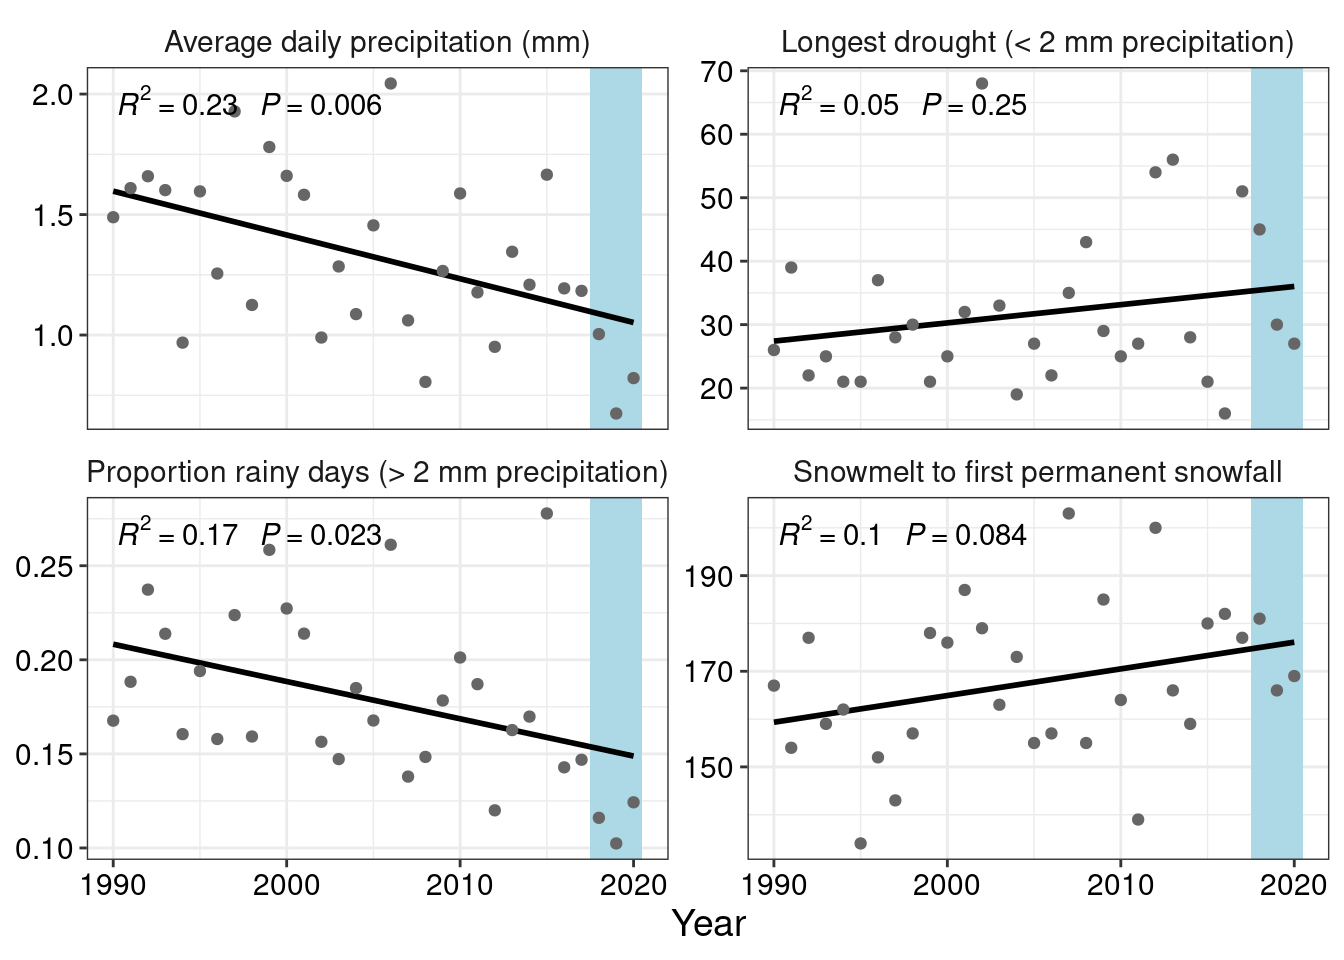
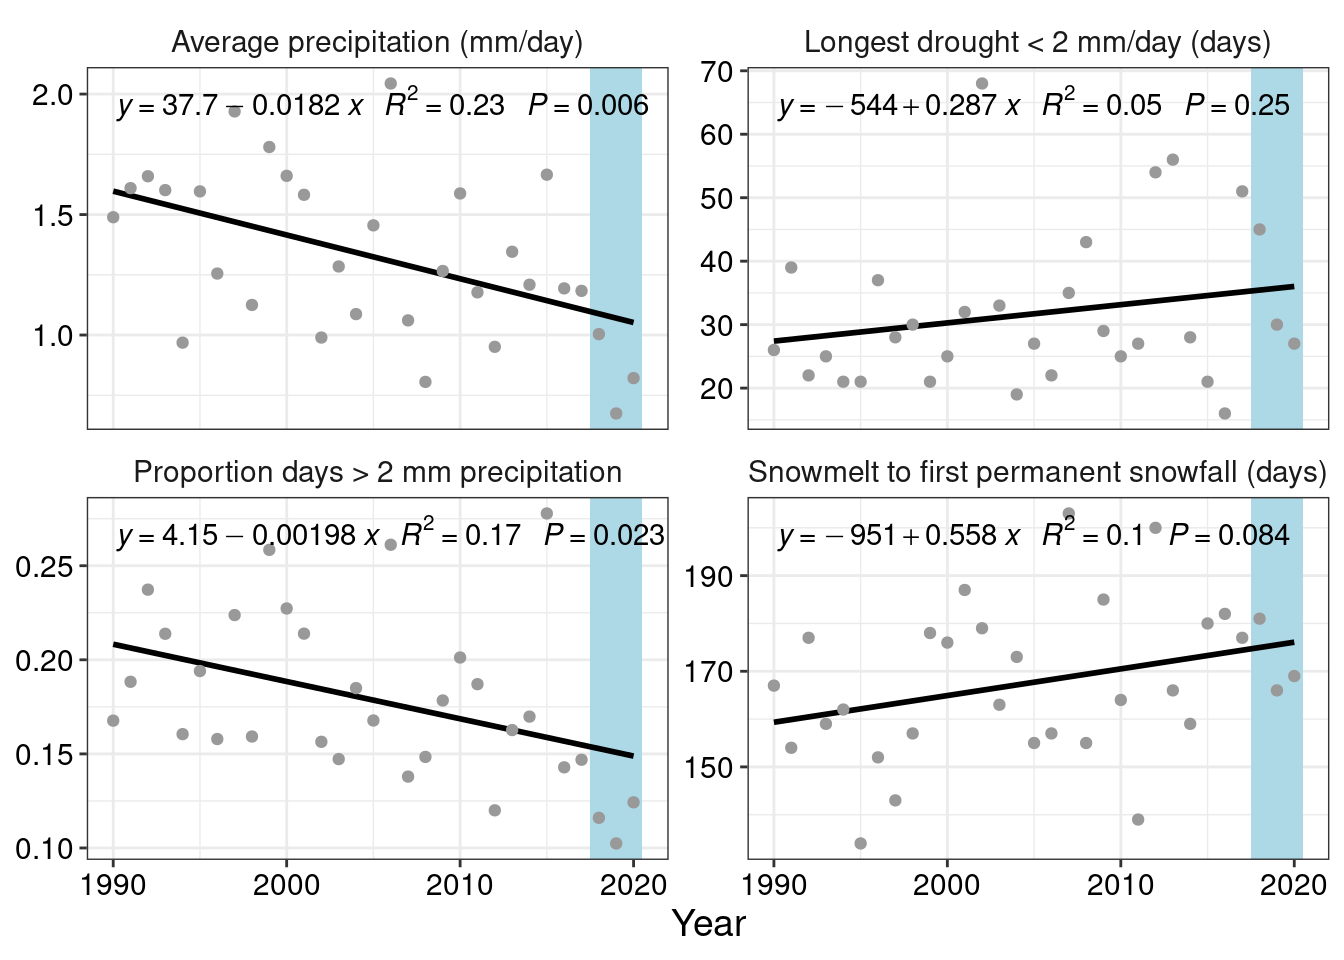
Add equations to trendlines

diff --git a/rmbl_weather.html b/rmbl_weather.html
@@ -11,7 +11,7 @@
 
 <meta name="author" content="John Powers" />
 
-<meta name="date" content="2021-04-14" />
+<meta name="date" content="2021-04-15" />
 
 <title>RMBL Weather Data</title>
 
@@ -257,7 +257,7 @@ div.tocify {
 
 <h1 class="title toc-ignore">RMBL Weather Data</h1>
 <h4 class="author"><a href="http://sites.uci.edu/powers/">John Powers</a></h4>
-<h4 class="date">2021-04-14</h4>
+<h4 class="date">2021-04-15</h4>
 
 </div>
 
@@ -1744,23 +1744,79 @@ ggplot(monthly_all_7am, aes(y=GTH161,x= USC00051959, color=ifelse(mo %in% 6:9,mo
                         avg_precip_mm = mean(EPA_NOAA_filled, na.rm=T),
                         total_precip_mm = sum(EPA_NOAA_filled, na.rm=T)))
 
-summary_names &lt;- c(snow_free_days = &quot;Snowmelt to first permanent snowfall&quot;,
-                   max_drought_days_2mm=&quot;Longest drought (&lt; 2 mm precipitation)&quot;, 
-                   rain_days_2mm = &quot;Rainy days (&gt; 2 mm precipitation)&quot;,
-                   prop_rain_days_2mm = &quot;Proportion rainy days (&gt; 2 mm precipitation)&quot;,
-                   max_precip_mm = &quot;Maximum daily precipitation (mm)&quot;,
-                   avg_precip_mm = &quot;Average daily precipitation (mm)&quot;,
+summary_names &lt;- c(snow_free_days = &quot;Snowmelt to first permanent snowfall (days)&quot;,
+                   max_drought_days_2mm=&quot;Longest drought &lt; 2 mm/day (days)&quot;, 
+                   rain_days_2mm = &quot;Days with &gt; 2 mm precipitation&quot;,
+                   prop_rain_days_2mm = &quot;Proportion days &gt; 2 mm precipitation&quot;,
+                   max_precip_mm = &quot;Maximum precipitation (mm/day)&quot;,
+                   avg_precip_mm = &quot;Average precipitation (mm/day)&quot;,
                    total_precip_mm = &quot;Total precipitation (mm)&quot;)
 
 summary_EPA_NOAA %&gt;% pivot_longer(!year) %&gt;% filter(!name %in% c(&quot;rain_days_2mm&quot;,&quot;max_precip_mm&quot;,&quot;total_precip_mm&quot;)) %&gt;% 
   ggplot(aes(y=value, x=year))+ 
   facet_wrap(vars(name), scales=&quot;free_y&quot;, labeller=as_labeller(summary_names)) +
   annotate(&quot;rect&quot;, xmin=2017.5, xmax=2020.5, ymin=-Inf, ymax=Inf, fill=&quot;lightblue&quot;)+
-  geom_smooth(method=&quot;lm&quot;, color=&quot;black&quot;, se=F) + geom_point(color=&quot;grey40&quot;) + labs(x=&quot;Year&quot;, y=&quot;&quot;) + 
-  stat_poly_eq(formula = y ~ x, aes(label = paste(..rr.label.., ..p.value.label.., sep = &quot;~~~&quot;)), parse = T) +
+  geom_smooth(method=&quot;lm&quot;, color=&quot;black&quot;, se=F) + geom_point(color=&quot;grey60&quot;) + labs(x=&quot;Year&quot;, y=&quot;&quot;) + 
+  stat_poly_eq(formula = y ~ x, aes(label = paste(..eq.label.., ..rr.label.., ..p.value.label.., sep = &quot;~~~&quot;)), parse = T) +
   theme_bw() +theme(text=element_text(color=&quot;black&quot;, size=14), axis.text = element_text(color=&quot;black&quot;),
                             axis.title.y= element_blank(), strip.background = element_blank())</code></pre>
 <p><img src="images_weather/precip_trend-3.png" width="672" /></p>
+<pre class="r"><code>summary_EPA_NOAA %&gt;% summarize(across(-year, mean, na.rm=T)) %&gt;% kable(caption = &quot;Averages 1990-2020&quot;)</code></pre>
+<table>
+<caption>
+Averages 1990-2020
+</caption>
+<thead>
+<tr>
+<th style="text-align:right;">
+max_drought_days_2mm
+</th>
+<th style="text-align:right;">
+snow_free_days
+</th>
+<th style="text-align:right;">
+rain_days_2mm
+</th>
+<th style="text-align:right;">
+prop_rain_days_2mm
+</th>
+<th style="text-align:right;">
+max_precip_mm
+</th>
+<th style="text-align:right;">
+avg_precip_mm
+</th>
+<th style="text-align:right;">
+total_precip_mm
+</th>
+</tr>
+</thead>
+<tbody>
+<tr>
+<td style="text-align:right;">
+31.70968
+</td>
+<td style="text-align:right;">
+167.7097
+</td>
+<td style="text-align:right;">
+29.83871
+</td>
+<td style="text-align:right;">
+0.1785583
+</td>
+<td style="text-align:right;">
+21.74889
+</td>
+<td style="text-align:right;">
+1.324491
+</td>
+<td style="text-align:right;">
+220.3063
+</td>
+</tr>
+</tbody>
+</table>
 </div>
 <div id="summer-precip-trends-1909-present" class="section level1">
 <h1>Summer precip trends 1909-present</h1>
